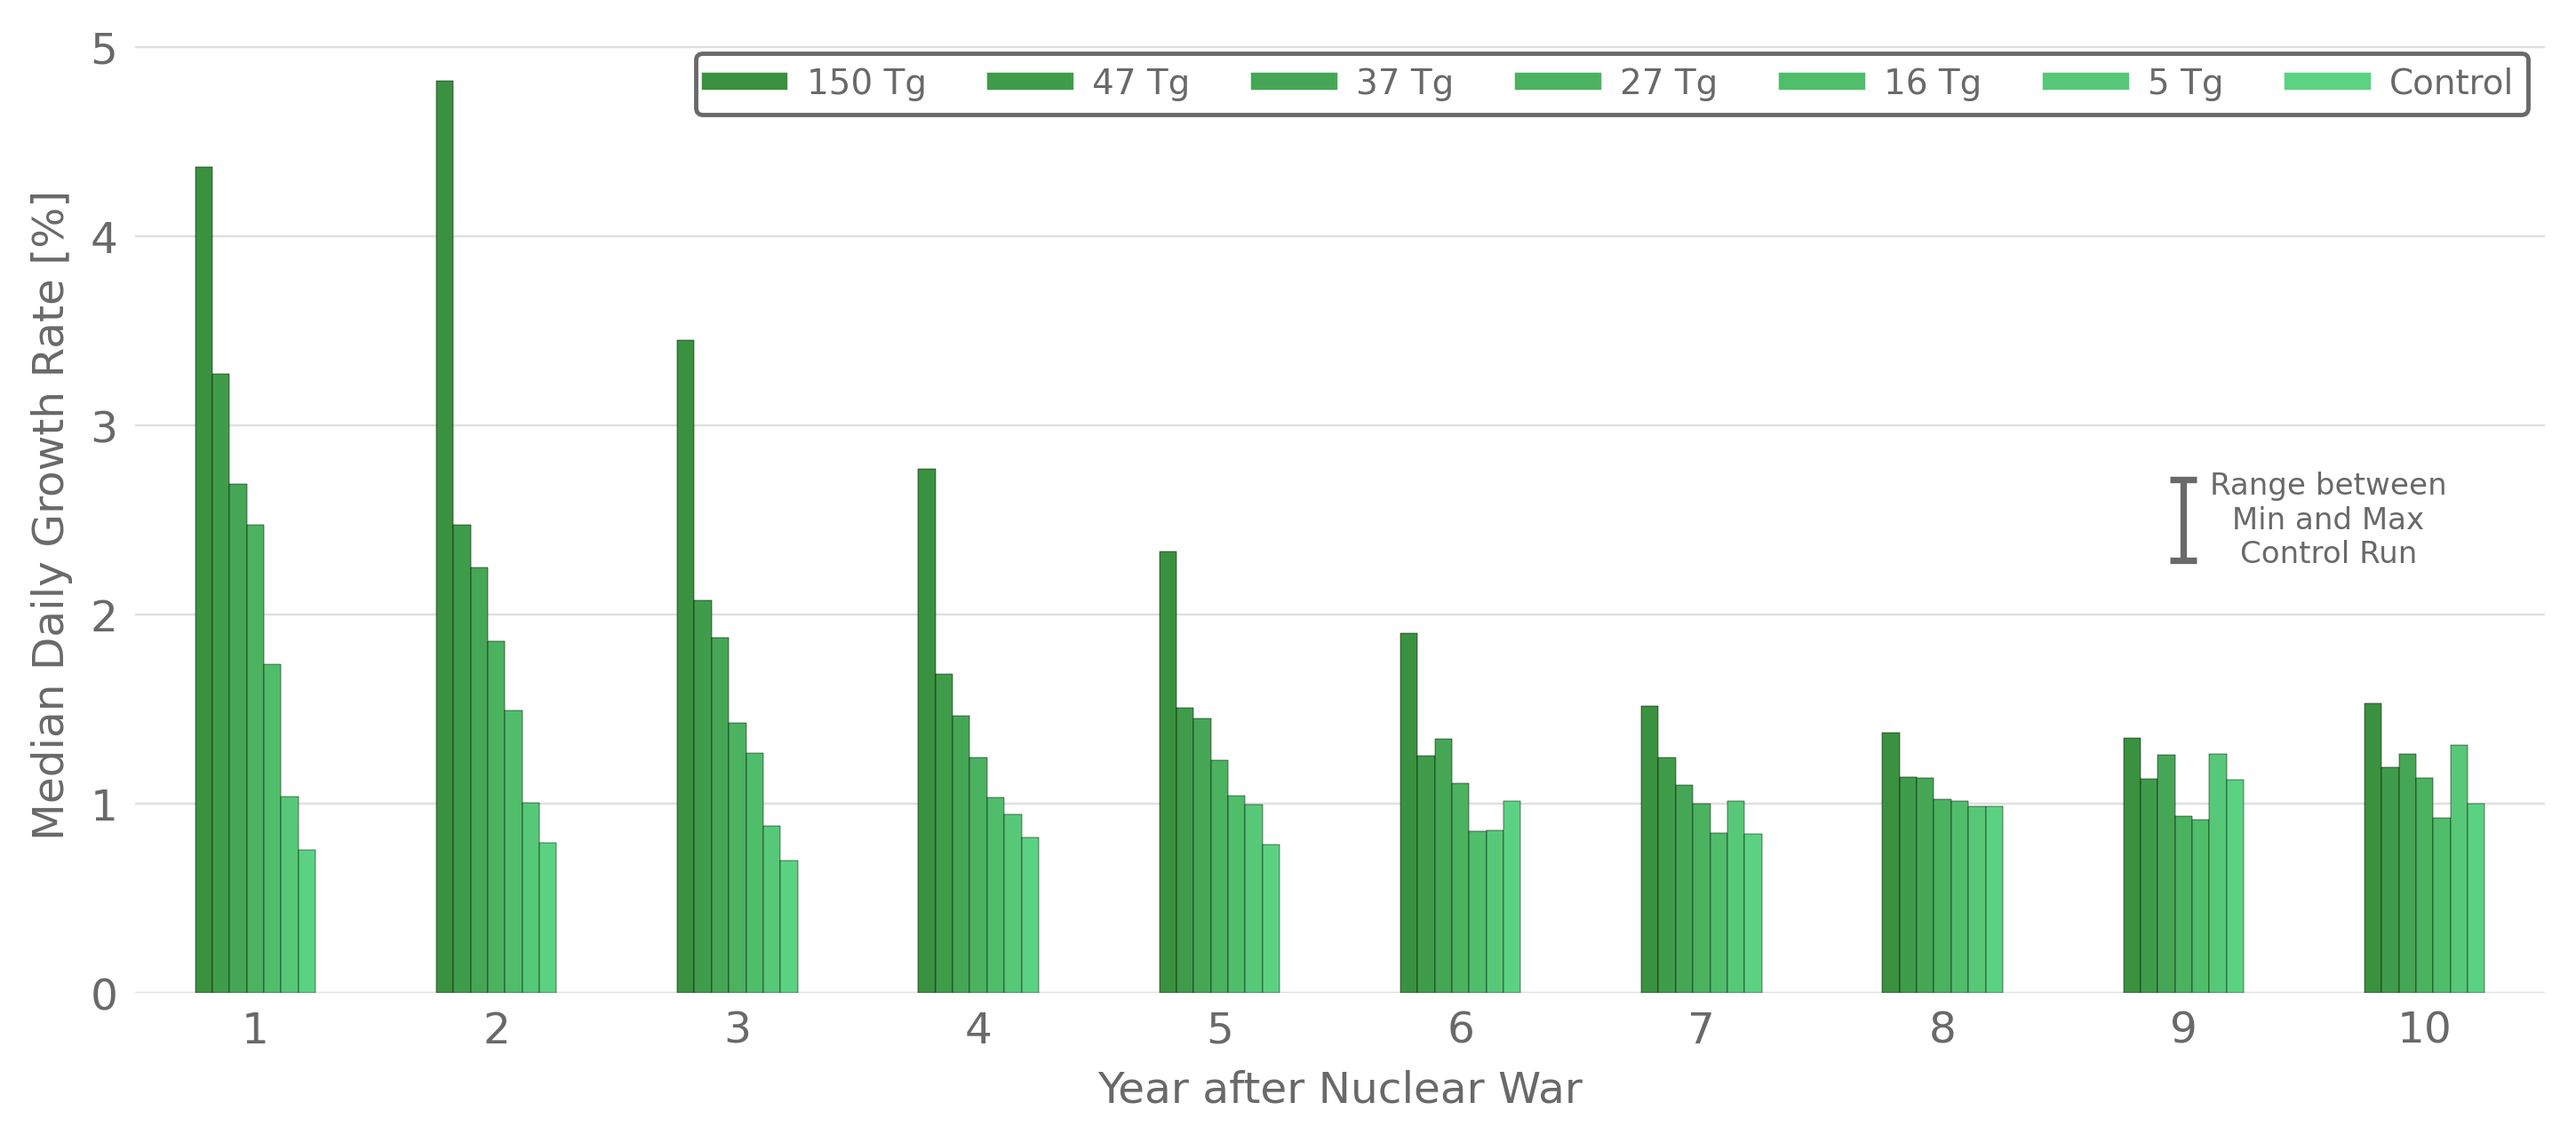
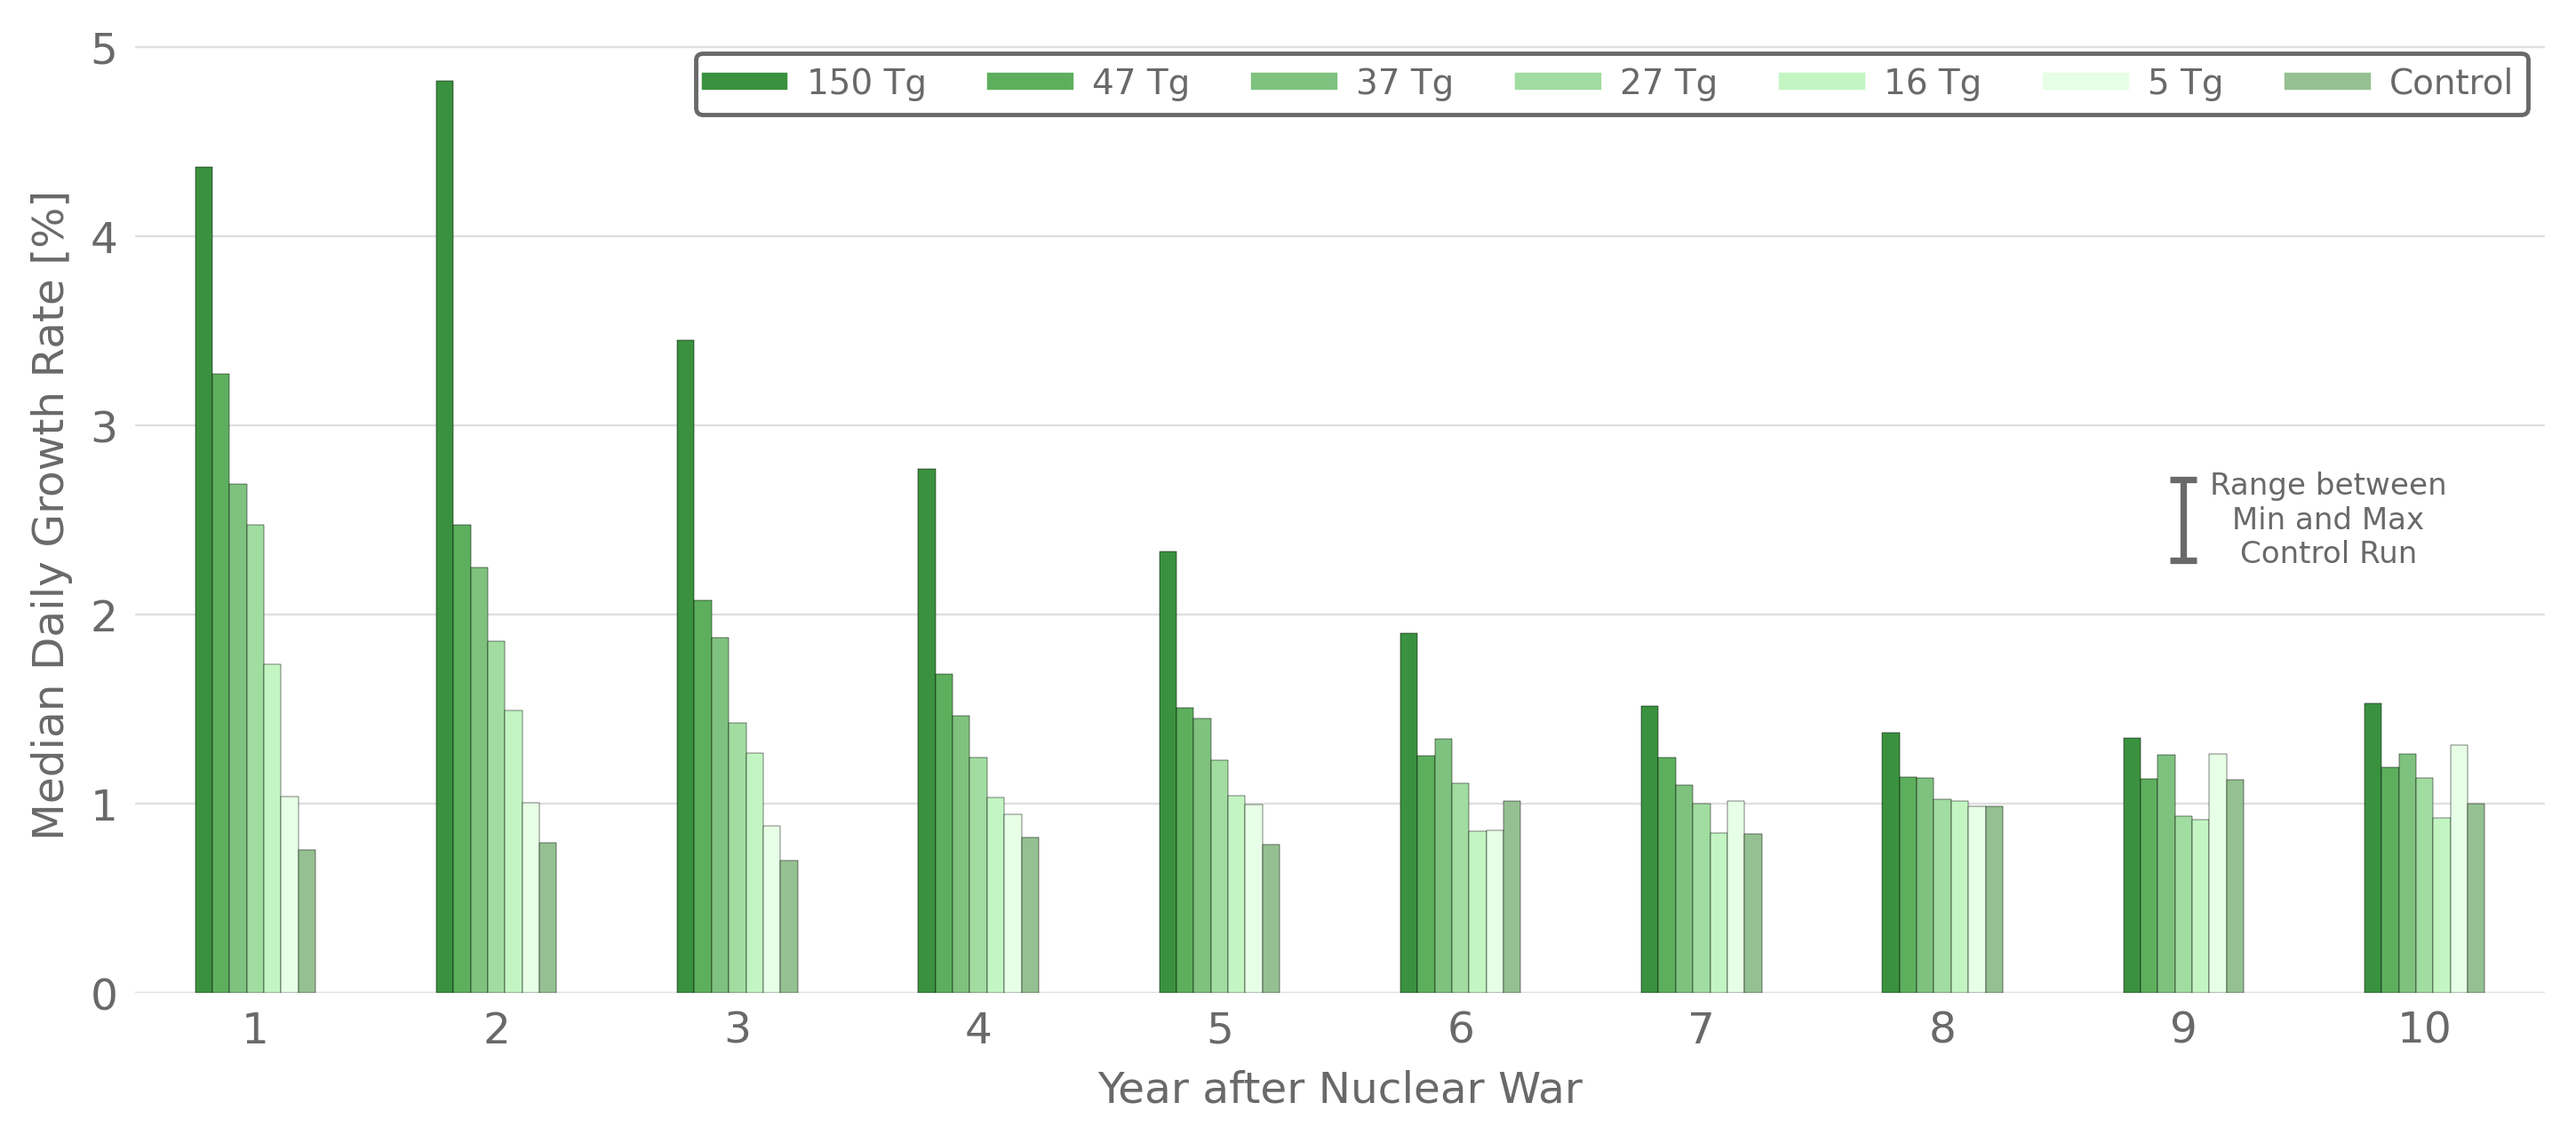
changed colors

diff --git a/src/plotting/plotter_grid.py b/src/plotting/plotter_grid.py
@@ -287,15 +287,14 @@ def compare_nw_scenarios(areas, optimal_growth_rate):
     """
     print("Starting the NW comparison plots")
     # A dictionary of seven colors, starting with #3A913F for the scenarios
-    # All following colors are 12% lighter than the previous one
     colors = {
         "150 Tg": "#3A913F",
-        "47 Tg": "#3F9C4A",
-        "37 Tg": "#45A755",
-        "27 Tg": "#4BB260",
-        "16 Tg": "#50BD6B",
-        "5 Tg": "#56C877",
-        "Control": "#5BD282",
+        "47 Tg": "#5DAF5D",
+        "37 Tg": "#7FC17F",
+        "27 Tg": "#A1DCA1",
+        "16 Tg": "#C3F5C3",
+        "5 Tg": "#E6FFE6",
+        "Control": "#95c091",
     }
     # have a list that is used to save the scenario results
     median_weighted_list = []
